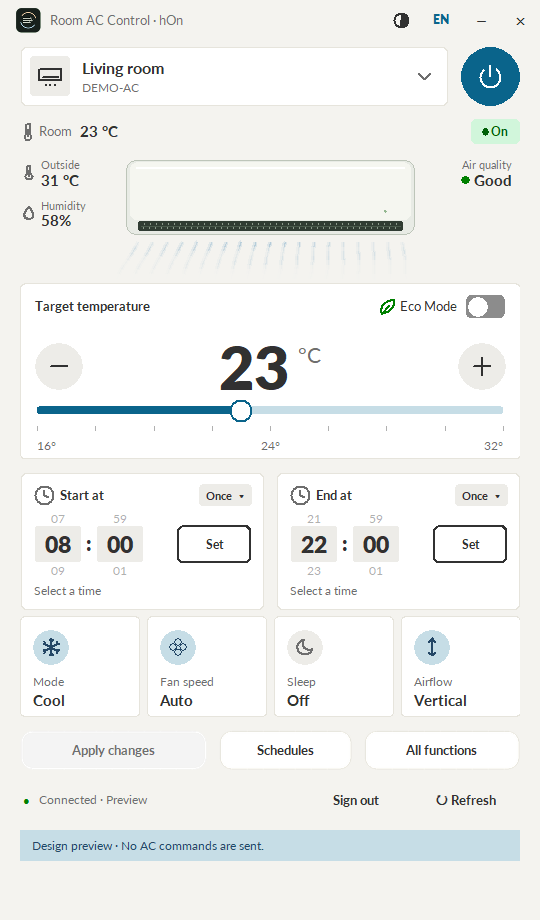
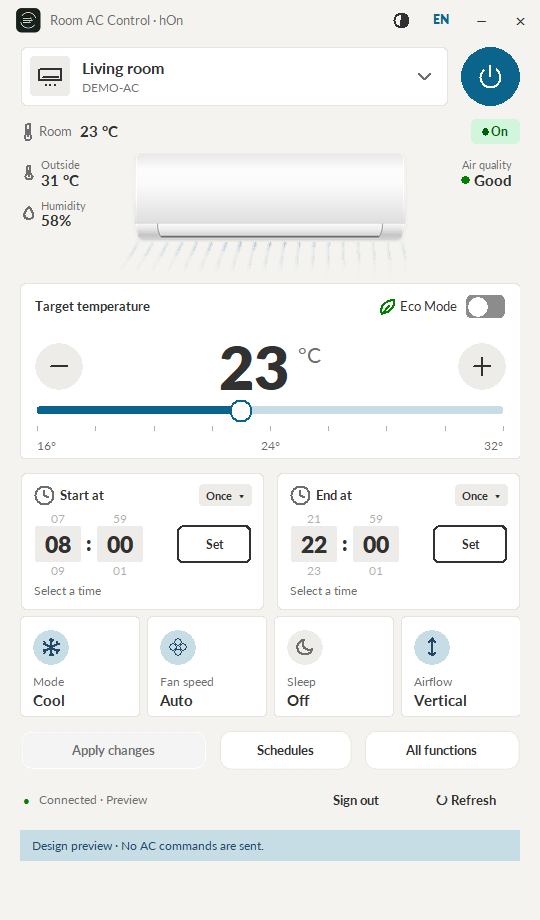
Open Schedules and All functions cleanly, without the white border (v0.1.21) (#26)
* Open Schedules and All functions cleanly, without the white border (v0.1.21)

Dialogs appeared with the Windows caption, then lost it and resized in
50 ms steps, which flickered. Tk also gives transient dialogs a modal
dialog frame that Windows paints as a white and grey 3D border.

Keep each window invisible until its native frame is restyled and its
size is exact, then show it once, centred over the main window. Clear
the dialog edge styles along with the caption, wait for the native
frame before measuring, and run one size check at a time.

window_header_smoke checks the first visible frame is already final,
with no caption or edge styles, and now runs from ui_smoke in CI.

* Draw the AC unit in hOn's style and drop Appearance from All functions (v0.1.22) (#27)

The unit artwork was a flat box with a grey outline. Redraw it after
the illustration in the hOn app: a soft white body, a curved lower
flap with a louvre panel and a dark air outlet, shaded rather than
outlined, with a faint contact shadow so it reads on light pages and
disappears on dark ones. It is still an original drawing rendered by
tools/render_assets.py.

unit_photo now scales with Lanczos instead of Tk's pixel-dropping
subsample, so the smaller copies stay smooth. The sizes are unchanged.

Appearance stays in the main window header; the All functions footer
no longer repeats it.

Changed region(s): [[0.237, 0.213, 0.7704, 0.2739]]

diff --git a/src/room_ac_control/window_header.py b/src/room_ac_control/window_header.py
@@ -12,6 +12,9 @@ from .theme import C, font, icon, paint, refresh_on_theme
 class WindowsFrame:
     """Remove the caption while preserving the existing Tk window and frame."""
     CAPTION = 0x00C00000
+    # Tk gives transient dialogs a modal-dialog frame; Windows paints these
+    # extended edges as a classic white and grey 3D border around the page.
+    EDGES = 0x00000001 | 0x00000100 | 0x00000200 | 0x00020000  # dialog-modal, window, client, static
 
     def __init__(self, window):
         self.window = window
@@ -33,18 +36,24 @@ class WindowsFrame:
         self.user.RedrawWindow.restype = wintypes.BOOL
 
     def apply(self):
+        """Restyle the native frame; False until Windows has created it."""
         self.hwnd = self.user.GetParent(self.window.winfo_id())
         if not self.hwnd:
-            return
-        style = self.get_style(self.hwnd, -16)
-        if style & self.CAPTION:
-            ctypes.set_last_error(0)
-            self.set_style(self.hwnd, -16, style & ~self.CAPTION)
-            if ctypes.get_last_error():
-                raise ctypes.WinError(ctypes.get_last_error())
+            return False
+        changed = False
+        for index, remove in ((-16, self.CAPTION), (-20, self.EDGES)):
+            style = self.get_style(self.hwnd, index)
+            if style & remove:
+                ctypes.set_last_error(0)
+                self.set_style(self.hwnd, index, style & ~remove)
+                if ctypes.get_last_error():
+                    raise ctypes.WinError(ctypes.get_last_error())
+                changed = True
+        if changed:
             # Recalculate the non-client region without moving or hiding the window.
             self.user.SetWindowPos(self.hwnd, None, 0, 0, 0, 0, 0x0027)
         self.apply_colors()
+        return True
 
     def apply_colors(self):
         if not self.hwnd:
@@ -81,7 +90,11 @@ class WindowsFrame:
         self.user.RedrawWindow(self.hwnd, None, None, 0x0001 | 0x0004 | 0x0080 | 0x0400)
 
 class WindowHeader:
-    def __init__(self, window, title, close, minimize=None, maximize=True, size=None):
+    hidden = False
+    reveal_job = None
+    fit_job = None
+
+    def __init__(self, window, title, close, minimize=None, maximize=True, size=None, owner=None):
         self.window = window
         self.size = size
         self.drag_origin = None
@@ -110,9 +123,33 @@ class WindowHeader:
         window.bind("<Map>", self.mapped, add="+")
         window.bind("<Configure>", self.configured, add="+")
         window.bind("<Destroy>", self.destroyed, add="+")
+        if size and owner is not None:
+            self.center(owner)
         if self.native:
+            # Stay invisible until the caption is gone and the size is exact, so
+            # the window appears once instead of flashing and then resizing.
+            window.attributes("-alpha", 0.0)
+            self.hidden = True
+            self.reveal_job = window.after(1000, self.reveal)  # Never leave a window hidden.
             window.after_idle(self.apply_frame)
             refresh_on_theme(self.frame, self.native.apply_colors)
+
+    def center(self, owner):
+        """Open a fixed-size window centred over the window that opened it."""
+        width, height = self.size
+        x = owner.winfo_rootx() + (owner.winfo_width() - width) // 2
+        y = owner.winfo_rooty() + (owner.winfo_height() - height) // 2
+        self.window.geometry(f"{width}x{height}+{max(0, x)}+{max(0, y)}")
+
+    def reveal(self):
+        if self.reveal_job is not None:
+            self.window.after_cancel(self.reveal_job)
+            self.reveal_job = None
+        if self.hidden and self.window.winfo_exists():
+            self.hidden = False
+            # Paint the area the size check just added before it becomes visible.
+            self.window.update_idletasks()
+            self.window.attributes("-alpha", 1.0)
 
     def button(self, text, command, hover="SURFACE"):
         button = tk.Button(self.frame, text=text, command=command, bd=0, relief="flat",
@@ -125,25 +162,44 @@ class WindowHeader:
         return button
 
     def apply_frame(self):
-        if self.window.winfo_exists() and self.native:
-            self.native.apply()
-            if self.size:
-                self.window.after(50, lambda: self.fit(self.size, 5))
+        if not (self.window.winfo_exists() and self.native):
+            return
+        try:
+            applied = self.native.apply()
+        except OSError:
+            self.reveal()
+            raise
+        if not applied:
+            return  # Not mapped yet; its <Map> event applies the frame.
+        # Several <Map> events can arrive together; run one size check at a time.
+        self.cancel_fit()
+        if self.size:
+            self.fit_job = self.window.after(15, lambda: self.fit(self.size, 8))
+        else:
+            self.fit_job = self.window.after(15, self.reveal)
+
+    def cancel_fit(self):
+        if self.fit_job is not None:
+            self.window.after_cancel(self.fit_job)
+            self.fit_job = None
 
     def fit(self, request, attempts):
         """Keep a fixed-size window's client area exact after the caption is removed.
 
         Tk still adds its own frame allowance to requested sizes, so nudge the
-        request by the measured error until the client matches."""
+        request by the measured error until the client matches, then show it."""
+        self.fit_job = None
         if not self.window.winfo_exists():
             return
         width, height = self.size
         error = (self.window.winfo_width()-width, self.window.winfo_height()-height)
         if error == (0, 0) or attempts == 0:
+            # Let Windows deliver the paint events for the final size first.
+            self.fit_job = self.window.after(40, self.reveal)
             return
         request = (request[0]-error[0], request[1]-error[1])
         self.window.geometry(f"{request[0]}x{request[1]}")
-        self.window.after(50, lambda: self.fit(request, attempts-1))
+        self.fit_job = self.window.after(15, lambda: self.fit(request, attempts-1))
 
     def mapped(self, event):
         if event.widget is self.window:
@@ -206,6 +262,10 @@ class WindowHeader:
                 self.drag_job = None
             self.drag_pending = None
             self.drag_origin = None
+            self.cancel_fit()
+            if self.reveal_job is not None:
+                self.window.after_cancel(self.reveal_job)
+                self.reveal_job = None
 
     def toggle_maximize(self):
         self.window.state("normal" if self.window.state() == "zoomed" else "zoomed")

diff --git a/tools/render_assets.py b/tools/render_assets.py
@@ -1,9 +1,72 @@
 """Render this project's original geometric artwork; no third-party images."""
 from pathlib import Path
-from PIL import Image, ImageDraw
+from PIL import Image, ImageDraw, ImageFilter
+
+SS=4  # Supersampling factor for smooth edges.
 
 ROOT=Path(__file__).resolve().parents[1]
 ASSETS=ROOT/'src'/'room_ac_control'/'assets'
+
+
+def gradient(size,stops):
+    """Vertical gradient; stops are (0..1 from the top, '#rrggbb')."""
+    width,height=size
+    image=Image.new('RGBA',size)
+    rgb=[(t,tuple(int(c[i:i+2],16) for i in (1,3,5))) for t,c in stops]
+    for y in range(height):
+        t=y/max(1,height-1)
+        for (t0,a),(t1,b) in zip(rgb,rgb[1:]):
+            if t0<=t<=t1:
+                k=(t-t0)/max(1e-9,t1-t0)
+                color=tuple(round(a[i]+(b[i]-a[i])*k) for i in range(3))
+                break
+        else:color=rgb[-1][1]
+        ImageDraw.Draw(image).line((0,y,width,y),fill=color+(255,))
+    return image
+
+
+def paste_shape(canvas,draw_mask,stops):
+    """Fill a shape (drawn white on a mask) with a vertical gradient."""
+    mask=Image.new('L',canvas.size,0)
+    draw_mask(ImageDraw.Draw(mask))
+    box=mask.getbbox()
+    fill=gradient((box[2]-box[0],box[3]-box[1]),stops)
+    canvas.paste(fill,box[:2],mask.crop(box))
+
+
+def render_unit():
+    """A slim wall unit: soft white body, curved lower flap and a dark air outlet.
+
+    Shading only, no outline, so it sits on light and dark pages alike."""
+    s=SS
+    unit=Image.new('RGBA',(1200*s,360*s),(0,0,0,0))
+    left,right,top,seam,bottom=60*s,1140*s,8*s,285*s,352*s
+    # Body: rounded top corners, sides flaring very slightly toward the seam.
+    paste_shape(unit,lambda d:(d.rounded_rectangle((left+3*s,top,right-3*s,seam+20*s),radius=14*s,fill=255),
+                               d.polygon([(left+3*s,top+40*s),(left,seam),(right,seam),(right-3*s,top+40*s)],fill=255),
+                               d.rectangle((0,seam,unit.width,unit.height),fill=0)),
+                [(0,'#e7e7e8'),(.22,'#fdfdfd'),(.45,'#fafafa'),(.7,'#eeeeef'),(1,'#dededf')])
+    # Lower flap tapering inward, with rounded bottom corners.
+    flap=lambda d:(d.polygon([(left,seam),(right,seam),(right-12*s,bottom-18*s),(left+12*s,bottom-18*s)],fill=255),
+                   d.rounded_rectangle((left+12*s,seam+20*s,right-12*s,bottom),radius=18*s,fill=255))
+    paste_shape(unit,flap,[(0,'#f8f8f7'),(.3,'#e8e8e8'),(.7,'#c6c5c6'),(1,'#d6d5d2')])
+    # Louvre panel set into the flap, its sides curving in toward the outlet.
+    depth=bottom-12*s-seam
+    side=lambda x0,direction:[(x0+direction*14*s*(t/24)**2.5,seam+depth*t/24) for t in range(25)]
+    left_side,right_side=side(150*s,1),side(1050*s,-1)
+    paste_shape(unit,lambda d:d.polygon(left_side+right_side[::-1],fill=255),[(0,'#fbfaf9'),(.5,'#ecebeb'),(1,'#cfcecf')])
+    draw=ImageDraw.Draw(unit)
+    for points in (left_side,right_side):
+        draw.line(points,fill='#8a8889',width=3*s,joint='curve')
+    # Air outlet and the seam between body and flap.
+    draw.rounded_rectangle((164*s,bottom-17*s,1036*s,bottom-10*s),radius=3*s,fill='#77787a')
+    draw.line((left,seam,right,seam),fill='#cfcfd0',width=2*s)
+    # A soft contact shadow, not an outline: it separates the white unit from
+    # light pages and disappears on dark ones.
+    shadow=Image.new('RGBA',unit.size,(40,40,36,0))
+    shadow.putalpha(unit.getchannel('A').point(lambda a:a*34//255).filter(ImageFilter.GaussianBlur(7*s)))
+    shadow=Image.alpha_composite(Image.new('RGBA',unit.size,(0,0,0,0)),shadow.transform(unit.size,Image.Transform.AFFINE,(1,0,0,0,1,-4*s)))
+    return Image.alpha_composite(shadow,unit).resize((1200,360),Image.Resampling.LANCZOS)
 
 
 def main():
@@ -19,16 +82,7 @@ def main():
     image.save(ASSETS/'app-icon.png')
     image.resize((52,52),Image.Resampling.LANCZOS).save(ASSETS/'app-mark.png')
     image.save(ASSETS/'app.ico',sizes=[(16,16),(24,24),(32,32),(48,48),(64,64),(128,128),(256,256)])
-    unit=Image.new('RGBA',(1200,360),(0,0,0,0))
-    draw=ImageDraw.Draw(unit)
-    draw.rounded_rectangle((23,31,1177,329),radius=40,fill='#e8ebe5',outline='#bdc5b9',width=4)
-    draw.rounded_rectangle((38,40,1162,271),radius=30,fill='#f5f6f0')
-    draw.line((62,62,1138,62),fill='#ffffff',width=5)
-    draw.rounded_rectangle((70,273,1130,313),radius=10,fill='#303c33')
-    for x in range(96,1120,24):draw.line((x,281,x-4,305),fill='#899889',width=3)
-    draw.line((83,296,1120,296),fill='#4a5a4c',width=3)
-    draw.ellipse((1054,230,1064,240),fill='#94b891')
-    unit.save(ASSETS/'unit.png')
+    render_unit().save(ASSETS/'unit.png')
 
 
 if __name__=='__main__':main()

diff --git a/tests/window_header_smoke.py b/tests/window_header_smoke.py
@@ -48,11 +48,37 @@ if root.winfo_screenheight() >= 1000:
 else:
     assert size[0] == 540 and size[1] <= 920, size
 assert app.body.winfo_width() == 540 and app.canvas.winfo_width() == 500
+def opened_cleanly(header, size):
+    """The dialog stays hidden until its frame and size are final, then shows
+    once with no caption, no dialog edge (the white border) and its exact size."""
+    window = header.window
+    shown = []
+    def watch():
+        if not window.winfo_exists():
+            return
+        if float(window.attributes("-alpha")) == 1.0:
+            shown.append((window.winfo_width(), window.winfo_height(),
+                          header.native.get_style(header.native.hwnd, -16) & native.CAPTION))
+        root.after(5, watch)
+    watch()
+    for _ in range(40):
+        root.update(); root.after(15)
+    assert shown, "the dialog never became visible"
+    assert shown[0] == (*size, 0), shown[0]  # First visible frame is already final.
+    assert not header.native.get_style(header.native.hwnd, -20) & header.native.EDGES
+    # Centred over the main window.
+    centre = lambda widget: (widget.winfo_rootx()+widget.winfo_width()//2, widget.winfo_rooty()+widget.winfo_height()//2)
+    assert all(abs(a-b) <= 2 for a, b in zip(centre(window), centre(root))), (centre(window), centre(root))
+
+from room_ac_control.schedules_view import SIZE as SCHEDULES_SIZE
 app.open_functions()
-root.update()
 view = app.functions_view
-assert not view.header.native.get_style(view.header.native.hwnd, -16) & native.CAPTION
+opened_cleanly(view.header, (620, 700))
 view.close()
+app.open_schedules()
+opened_cleanly(app.schedules_view.header, SCHEDULES_SIZE)
+app.schedules_view.close()
+root.update()
 app.choice_menu("machMode")
 root.update()
 chooser = app.choice_panel

diff --git a/src/room_ac_control/functions_view.py b/src/room_ac_control/functions_view.py
@@ -81,7 +81,8 @@ class FunctionsView:
         self.window.grab_set()
         self.window.protocol("WM_DELETE_WINDOW", self.close)
         from .window_header import WindowHeader
-        self.header = WindowHeader(self.window, "Room AC Control · All functions", self.close, maximize=False, size=(620, 700))
+        self.header = WindowHeader(self.window, "Room AC Control · All functions", self.close, maximize=False,
+                                   size=(620, 700), owner=app.root)
         self.photo = unit_photo(self.window, 230)
         self.section = "settings"
         self.settings_changes = dict(app.dirty)
@@ -153,7 +154,6 @@ class FunctionsView:
         self.apply_button.pack(side="left", expand=True, fill="x", padx=(0, 10))
         localized(ttk.Button(self.footer, text="Close", command=self.close)).pack(side="right")
         localized(ttk.Button(self.footer, text="Diagnostics", style="Ghost.TButton", command=app.export_diagnostics)).pack(side="right", padx=(0, 6))
-        localized(ttk.Button(self.footer, text="Appearance", style="Ghost.TButton", command=lambda:app.theme_menu(self.window))).pack(side="right",padx=(0,2))
         localized(ttk.Button(self.footer, text="Language", style="Ghost.TButton", command=lambda:app.language_menu(self.window))).pack(side="right",padx=(0,2))
         self.search.trace_add("write", lambda *args: self.update_placeholder())
         self.search.trace_add("write", lambda *args: self.render_section())

diff --git a/tests/test_theme.py b/tests/test_theme.py
@@ -127,5 +127,29 @@ class ThemePreferenceTests(unittest.TestCase):
             self.assertIn(text, PORTUGUESE)
 
 
+
+class UnitArtworkTests(unittest.TestCase):
+    def test_artwork_has_no_hard_outline_and_scales_smoothly(self):
+        from PIL import Image
+        with Image.open(theme.ASSETS / "unit.png") as image:
+            image = image.convert("RGBA")
+            # Shaded like hOn's unit: no grey outline ring around the body edge.
+            middle = image.height // 2
+            edge = next(x for x in range(image.width) if image.getpixel((x, middle))[3] == 255)
+            self.assertGreater(sum(image.getpixel((edge, middle))[:3]) / 3, 200)
+        import tkinter as tk
+        try:
+            root = tk.Tk()
+        except tk.TclError as error:
+            self.skipTest(f"No display: {error}")
+        try:
+            root.withdraw()
+            for width, expected in ((330, (300, 90)), (230, (200, 60)), (300, (300, 90))):
+                photo = theme.unit_photo(root, width)
+                self.assertEqual((photo.width(), photo.height()), expected)
+        finally:
+            root.destroy()
+
+
 if __name__ == "__main__":
     unittest.main()

diff --git a/tests/ui_smoke.py b/tests/ui_smoke.py
@@ -50,6 +50,9 @@ if __name__ == "__main__":
     app.choice_panel.close()
     app.open_functions()
     view=app.functions_view
+    # Appearance lives only in the main window header, not the All functions footer.
+    footer=[child.cget("text") for child in view.footer.winfo_children() if child.winfo_class()=="TButton"]
+    assert "Appearance" not in footer and "Language" in footer and "Close" in footer, footer
     view.edit_setting(app.selected["controls"]["machMode"],None)
     assert view.choice_panel.options==main_modes
     view.choice_panel.choose(next(option["value"] for option in main_modes if option["label"]=="Heat Night"))
@@ -173,3 +176,4 @@ if __name__ == "__main__":
         subprocess.run([sys.executable, str(Path(__file__).with_name("i18n_smoke.py"))], check=True)
         subprocess.run([sys.executable, str(Path(__file__).with_name("theme_smoke.py"))], check=True)
         subprocess.run([sys.executable, str(Path(__file__).with_name("schedules_smoke.py"))], check=True)
+        subprocess.run([sys.executable, str(Path(__file__).with_name("window_header_smoke.py"))], check=True)

diff --git a/src/room_ac_control/theme.py b/src/room_ac_control/theme.py
@@ -136,10 +136,12 @@ def measure(widget, text, size, weight="normal"):
 
 
 def unit_photo(master, width=390):
-    """Load original, unbranded appliance artwork."""
-    photo = tk.PhotoImage(master=master, file=str(ASSETS / "unit.png"))
-    factor = max(1, math.ceil(photo.width() / width))
-    return photo.subsample(factor)
+    """Load original, unbranded appliance artwork, smoothly scaled to fit width."""
+    from PIL import Image, ImageTk
+    with Image.open(ASSETS / "unit.png") as image:
+        factor = max(1, math.ceil(image.width / width))
+        size = (image.width // factor, image.height // factor)
+        return ImageTk.PhotoImage(image.resize(size, Image.Resampling.LANCZOS), master=master)
 
 
 def rounded(canvas, x1, y1, x2, y2, radius=12, **options):

diff --git a/src/room_ac_control/schedules_view.py b/src/room_ac_control/schedules_view.py
@@ -221,7 +221,7 @@ class SchedulesView:
         self.window.grab_set()
         self.window.protocol("WM_DELETE_WINDOW", self.close)
         from .window_header import WindowHeader
-        self.header = WindowHeader(self.window, "Room AC Control · Schedules", self.close, maximize=False, size=SIZE)
+        self.header = WindowHeader(self.window, "Room AC Control · Schedules", self.close, maximize=False, size=SIZE, owner=app.root)
         self.body = ttk.Frame(self.window, padding=(24, 4, 24, 20))
         self.body.pack(fill="both", expand=True)
         localized(ttk.Label(self.body, text="Schedules", font=font(21, "black"))).pack(anchor="w")

diff --git a/src/room_ac_control/__init__.py b/src/room_ac_control/__init__.py
@@ -1,2 +1,2 @@
 """Room AC Control: a community hOn controller for Windows."""
-__version__ = "0.1.20"
+__version__ = "0.1.22"

diff --git a/README.md b/README.md
@@ -79,11 +79,11 @@ Runtime builds, local environments, shortcuts and account files are excluded fro
 .\tools\Build.ps1
 ```
 
-The preview uses fictional rooms and does not load saved credentials. Use `--preview login` to review the welcome screen. Add `--language pt-PT` or `--language en`, or `--theme light` or `--theme dark`, to preview a specific language or appearance without changing your saved preferences. `tools/Build.ps1` produces `releases/Room-AC-Control-for-hOn-0.1.20-Windows-x64.zip` and a local app-icon shortcut. The build checks bundled assets, Windows encryption, tray imports and MQTT libraries without contacting an account.
+The preview uses fictional rooms and does not load saved credentials. Use `--preview login` to review the welcome screen. Add `--language pt-PT` or `--language en`, or `--theme light` or `--theme dark`, to preview a specific language or appearance without changing your saved preferences. `tools/Build.ps1` produces `releases/Room-AC-Control-for-hOn-0.1.22-Windows-x64.zip` and a local app-icon shortcut. The build checks bundled assets, Windows encryption, tray imports and MQTT libraries without contacting an account.
 
 Setup and build install full hash-verified Windows dependency locks. `Setup.ps1` prepares source execution; `Build.ps1` produces the portable executable. See [build verification](docs/BUILD_VERIFICATION.md) for checksums, source manifests, optional signing and CI attestations. Binaries remain unsigned until a valid signing certificate is supplied.
 
-Windows UI checks: `tests/ui_smoke.py`, `tests/refresh_smoke.py`, `tests/desktop_smoke.py`, `tests/timer_smoke.py` and `tests/schedules_smoke.py` (also run by ui_smoke), and `tests/window_header_smoke.py`. Active CI in `.github/workflows/windows.yml` pins actions to immutable commits, runs offline checks, and builds a portable Windows artifact for pull requests and pushes to main. Merging a PR that bumps the app version automatically builds, attests and publishes the release (for example `v0.1.20`); merges that keep the current version only build.
+Windows UI checks: `tests/ui_smoke.py`, `tests/refresh_smoke.py`, `tests/desktop_smoke.py`, and `tests/timer_smoke.py`, `tests/schedules_smoke.py` and `tests/window_header_smoke.py` (all three also run by ui_smoke). Active CI in `.github/workflows/windows.yml` pins actions to immutable commits, runs offline checks, and builds a portable Windows artifact for pull requests and pushes to main. Merging a PR that bumps the app version automatically builds, attests and publishes the release (for example `v0.1.22`); merges that keep the current version only build.
 
 See [Contributing](CONTRIBUTING.md) and the [user guide](docs/USER_GUIDE.md) for more detail.
 

diff --git a/docs/USER_GUIDE.md b/docs/USER_GUIDE.md
@@ -14,7 +14,7 @@ Changing language keeps your signed-in account, pending settings and open preset
 
 ## Choose light or dark
 
-Click the half-filled circle in the window header, or **Appearance** in All functions, to choose **Follow Windows**, **Light mode** or **Dark mode**. Follow Windows uses the app mode set in Windows Settings › Personalization › Colors and switches within a couple of seconds when you change it there. The choice applies immediately to every open window, keeps pending settings and drafts, and is saved for later launches.
+Click the half-filled circle in the main window header to open **Appearance** and choose **Follow Windows**, **Light mode** or **Dark mode**. Follow Windows uses the app mode set in Windows Settings › Personalization › Colors and switches within a couple of seconds when you change it there. The choice applies immediately to every open window, keeps pending settings and drafts, and is saved for later launches.
 
 ## Select an AC
 
